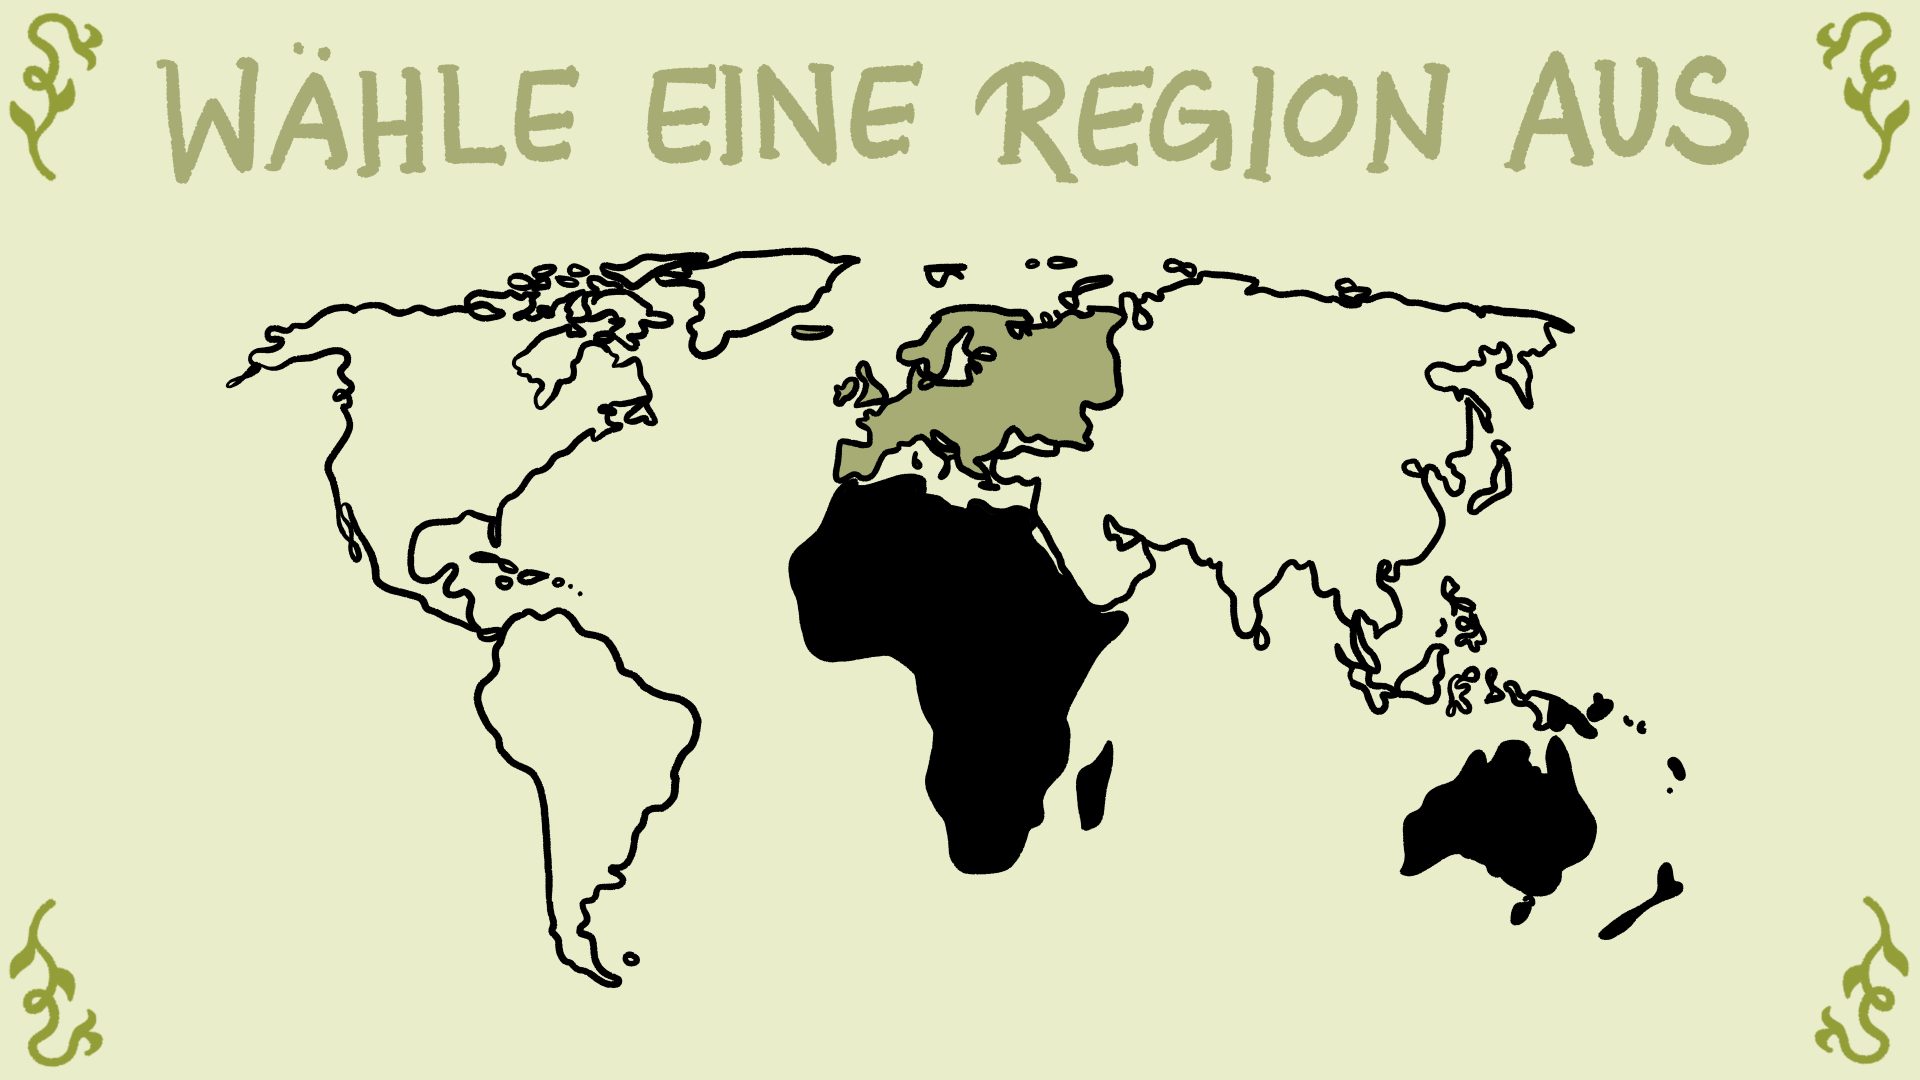
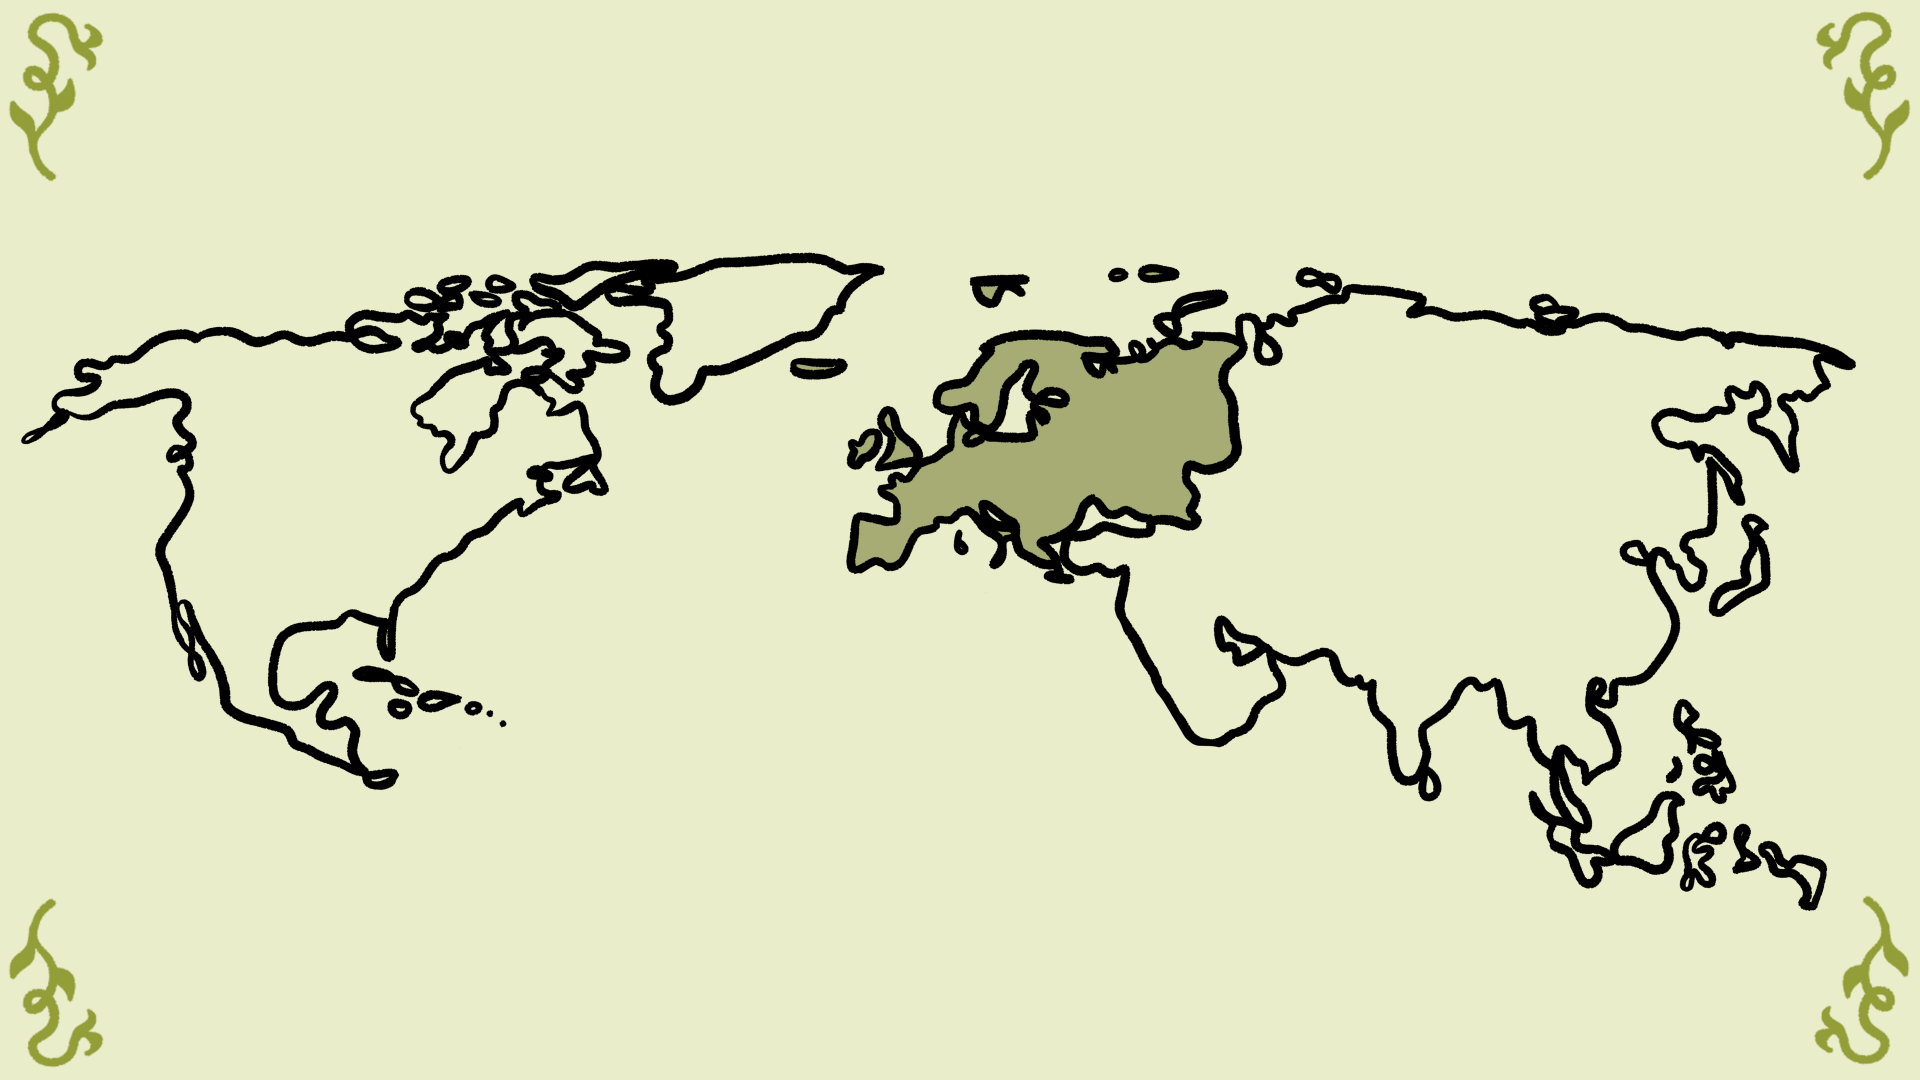
T007 screens überarbeiten

diff --git a/src/main/java/conserveandcook/view/pui/components/BarcodeScanner.java b/src/main/java/conserveandcook/view/pui/components/BarcodeScanner.java
@@ -1,13 +1,15 @@
 package conserveandcook.view.pui.components;
 
 import com.pi4j.catalog.components.base.Component;
-import conserveandcook.misc.Config;
-import static ch.mvcbase.MvcLogger.LOGGER;
+import conserveandcook.misc.Environments;
 
-import java.io.*;
+import java.io.FileInputStream;
+import java.io.IOException;
 import java.nio.ByteBuffer;
 import java.nio.ByteOrder;
 import java.util.function.Consumer;
+
+import static ch.mvcbase.MvcLogger.LOGGER;
 
 public class BarcodeScanner extends Component {
     private final String devicePath;
@@ -31,7 +33,7 @@ public class BarcodeScanner extends Component {
     }
 
     private void listenToInput() {
-        if (Config.get("environment").equals("test"))  {
+        if (Environments.get() == Environments.TEST) {
             return;
         }
         try (FileInputStream inputStream = new FileInputStream(devicePath)) {
@@ -58,7 +60,7 @@ public class BarcodeScanner extends Component {
                         LOGGER.logInfo("Barcode scanned: {}", barcode);
 
                         // Run the onScan worker, if it has been set
-                        if(onScan != null) {
+                        if (onScan != null) {
                             onScan.accept(barcode.toString());
                         }
                         barcode.setLength(0); // Reset barcode buffer
@@ -66,7 +68,7 @@ public class BarcodeScanner extends Component {
                 }
             }
         } catch (IOException e) {
-            LOGGER.logError("Error reading from {}: {}",devicePath, e.getMessage(),e);
+            LOGGER.logError("Error reading from {}: {}", devicePath, e.getMessage(), e);
         }
     }
 
@@ -99,8 +101,8 @@ public class BarcodeScanner extends Component {
         this.onScan = task;
     }
 
-    public void mockScan(String payload){
-        if(onScan != null) {
+    public void mockScan(String payload) {
+        if (onScan != null) {
             onScan.accept(payload);
         }
     }

diff --git a/src/main/java/conserveandcook/view/gui/AbstractGif.java b/src/main/java/conserveandcook/view/gui/AbstractGif.java
@@ -1,0 +1,49 @@
+package conserveandcook.view.gui;
+
+import ch.trick17.gui.Gui;
+
+public abstract class AbstractGif extends AbstractScreen {
+    // GIF
+    private int currentFrame = 0;
+    private final String baseFrame = "frame_";
+    private final String imageFormat = ".png";
+    private long lastGifFrameDrawnAt;
+    protected int frames;
+    protected long gifInterval;
+
+    protected AbstractGif(Gui gui, int frames, long gifInterval) {
+        super(gui);
+        this.frames = frames;
+        this.gifInterval = gifInterval;
+    }
+
+    /**
+     * Calculating next frame
+     *
+     * @param basePath Path of the screen, usually img/{screen-name}
+     * @return String of the next frame
+     */
+    protected String getGifFrame(String basePath) {
+        long now = System.nanoTime();
+
+        if (now - lastGifFrameDrawnAt > gifInterval) {
+            lastGifFrameDrawnAt = now;
+            currentFrame = currentFrame + 1 < frames ? currentFrame + 1 : 0;
+        }
+        String formattedFrame = String.format("%01d", currentFrame);
+        return basePath + baseFrame + formattedFrame + imageFormat;
+    }
+
+    /**
+     * Calculating next frame number
+     */
+    protected String getGifNumber() {
+        long now = System.nanoTime();
+
+        if (now - lastGifFrameDrawnAt > gifInterval) {
+            lastGifFrameDrawnAt = now;
+            currentFrame = currentFrame + 1 < frames ? currentFrame + 1 : 0;
+        }
+        return "/" + baseFrame + String.format("%01d", currentFrame);
+    }
+}

diff --git a/src/main/java/conserveandcook/view/gui/Window.java b/src/main/java/conserveandcook/view/gui/Window.java
@@ -3,15 +3,14 @@ package conserveandcook.view.gui;
 import ch.mvcbase.GuiBase;
 import conserveandcook.controller.ApplicationController;
 import conserveandcook.misc.Config;
+import conserveandcook.misc.Environments;
 import conserveandcook.model.Application;
 import conserveandcook.view.gui.screens.*;
 
-import java.util.Objects;
-
 public class Window extends GuiBase<Application, ApplicationController> {
 
-    public static final int HEIGHT = Integer.parseInt(Config.get("screen.height"));
-    public static final int WIDTH = Integer.parseInt(Config.get("screen.width"));
+    public static int HEIGHT = Integer.parseInt(Config.get("screen.height"));
+    public static int WIDTH = Integer.parseInt(Config.get("screen.width"));
 
     protected final ApplicationController controller;
 
@@ -26,8 +25,12 @@ public class Window extends GuiBase<Application, ApplicationController> {
         Application.screens.put(AvailableScreens.RESULT, new ResultScreen(this));
         Application.screens.put(AvailableScreens.NAME, new NameScreen(this));
 
+        WIDTH = (int) this.getWidth();
+        HEIGHT = (int) this.getHeight();
+        this.setResizable(true);
+
         // Fullscreen when running on local doesn't work
-        boolean runningOnPi = Objects.equals(Config.get("environment"), "production");
+        boolean runningOnPi = Environments.get() == Environments.PRODUCTION;
         this.setFullScreen(runningOnPi);
     }
 

diff --git a/src/main/java/conserveandcook/view/pui/components/Joystick.java b/src/main/java/conserveandcook/view/pui/components/Joystick.java
@@ -1,7 +1,7 @@
 package conserveandcook.view.pui.components;
 
 import com.pi4j.catalog.components.base.Component;
-import conserveandcook.misc.Config;
+import conserveandcook.misc.Environments;
 
 import java.io.FileInputStream;
 import java.time.Duration;
@@ -38,7 +38,7 @@ public class Joystick extends Component {
     }
 
     private void listenToInput() {
-        if (Config.get("environment").equals("test")) {
+        if (Environments.get() == Environments.TEST) {
             return;
         }
         try (FileInputStream fis = new FileInputStream(this.device)) {
@@ -201,7 +201,7 @@ public class Joystick extends Component {
 
     // For testing
     public void mockInput() {
-        if (Config.get("environment").equals("test")) {
+        if (Environments.get() == Environments.TEST) {
             executor = Executors.newSingleThreadExecutor();
             setDirection(true, whileNorthWorker, onNorth);
             setDirection(true, whileEastWorker, onEast);

diff --git a/src/main/java/conserveandcook/view/gui/AbstractScreen.java b/src/main/java/conserveandcook/view/gui/AbstractScreen.java
@@ -1,0 +1,32 @@
+package conserveandcook.view.gui;
+
+import ch.trick17.gui.Gui;
+import conserveandcook.misc.Config;
+import conserveandcook.model.Application;
+
+public abstract class AbstractScreen {
+    protected final Gui gui;
+    public static double SCALE = Double.parseDouble(Config.get("screen.scale"));
+
+    protected AbstractScreen(Gui gui) {
+        this.gui = gui;
+    }
+
+    public abstract void draw(Application model);
+
+    public AvailableScreens next(){
+        return null;
+    }
+    public AvailableScreens prev(){
+        return null;
+    }
+    public void left(Application model) {}
+    public void right(Application model) {}
+    public void scan(Application model, String barcode) {}
+    public void up(Application model) {};
+    public void down(Application model) {};
+
+    protected void drawBackground(String frame) {
+        gui.drawImage(frame, 0, 0, SCALE);
+    }
+}

diff --git a/src/main/java/conserveandcook/view/gui/screens/RegionScreen.java b/src/main/java/conserveandcook/view/gui/screens/RegionScreen.java
@@ -2,6 +2,7 @@ package conserveandcook.view.gui.screens;
 
 import ch.trick17.gui.Gui;
 import conserveandcook.model.Application;
+import conserveandcook.view.gui.AbstractScreen;
 import conserveandcook.view.gui.AvailableScreens;
 
 public class RegionScreen extends AbstractScreen {
@@ -14,6 +15,10 @@ public class RegionScreen extends AbstractScreen {
         String backgroundPath = "img/regions/";
         String path = backgroundPath + model.getSelectedRegion().toString().toLowerCase() + ".png";
         drawBackground(path);
+
+        gui.setTextAlignCenter();
+        gui.setFontSize((int) (100 * SCALE));
+        gui.drawString("Select Region", gui.getWidth() / 2, 80);
     }
 
     @Override

diff --git a/src/main/java/conserveandcook/view/gui/screens/NameScreen.java b/src/main/java/conserveandcook/view/gui/screens/NameScreen.java
@@ -2,6 +2,7 @@ package conserveandcook.view.gui.screens;
 
 import ch.trick17.gui.Gui;
 import conserveandcook.model.Application;
+import conserveandcook.view.gui.AbstractScreen;
 import conserveandcook.view.gui.AvailableScreens;
 
 public class NameScreen extends AbstractScreen {
@@ -15,8 +16,7 @@ public class NameScreen extends AbstractScreen {
 
     @Override
     public void draw(Application model) {
-        String backgroundPath = "img/name/";
-        String path = backgroundPath + "background.png";
+        String path = "img/name/" + model.getSelectedLanguage().name().toLowerCase() + ".png";
         characters = model.getNameCharacters();
 
         drawBackground(path);

diff --git a/src/main/java/conserveandcook/view/gui/screens/LanguageScreen.java b/src/main/java/conserveandcook/view/gui/screens/LanguageScreen.java
@@ -2,11 +2,10 @@ package conserveandcook.view.gui.screens;
 
 import ch.trick17.gui.Gui;
 import conserveandcook.model.Application;
+import conserveandcook.view.gui.AbstractGif;
 import conserveandcook.view.gui.AvailableScreens;
 
-import java.util.Locale;
-
-public class LanguageScreen extends AbstractScreen {
+public class LanguageScreen extends AbstractGif {
     static final int FRAMES = 4;
     static final long GIF_INTERVAL = 2200 * 100000; // 0.25 seconds
 

diff --git a/src/main/java/conserveandcook/view/gui/screens/StartScreen.java b/src/main/java/conserveandcook/view/gui/screens/StartScreen.java
@@ -2,9 +2,10 @@ package conserveandcook.view.gui.screens;
 
 import ch.trick17.gui.Gui;
 import conserveandcook.model.Application;
+import conserveandcook.view.gui.AbstractGif;
 import conserveandcook.view.gui.AvailableScreens;
 
-public class StartScreen extends AbstractScreen {
+public class StartScreen extends AbstractGif {
     static final int FRAMES = 4;
     static final long GIF_INTERVAL = 2500 * 100000; // 0.25 seconds
 

diff --git a/src/test/java/conserveandcook/misc/EnvironmentTest.java b/src/test/java/conserveandcook/misc/EnvironmentTest.java
@@ -1,0 +1,14 @@
+package conserveandcook.misc;
+
+import conserveandcook.AbstractTest;
+import org.junit.jupiter.api.Test;
+
+import static org.junit.jupiter.api.Assertions.assertEquals;
+
+public class EnvironmentTest extends AbstractTest {
+    @Test
+    public void testGetEnv(){
+        Environments currentEnv = Environments.get();
+        assertEquals(Environments.TEST, currentEnv);
+    }
+}

diff --git a/src/main/java/conserveandcook/model/Application.java b/src/main/java/conserveandcook/model/Application.java
@@ -2,8 +2,8 @@ package conserveandcook.model;
 
 import conserveandcook.misc.Languages;
 import conserveandcook.misc.Regions;
+import conserveandcook.view.gui.AbstractScreen;
 import conserveandcook.view.gui.AvailableScreens;
-import conserveandcook.view.gui.screens.AbstractScreen;
 
 import java.util.HashMap;
 import java.util.Map;

diff --git a/src/main/java/conserveandcook/view/gui/screens/GameScreen.java b/src/main/java/conserveandcook/view/gui/screens/GameScreen.java
@@ -4,6 +4,7 @@ import ch.trick17.gui.Gui;
 import conserveandcook.model.Application;
 import conserveandcook.model.Ingredient;
 import conserveandcook.model.Recipe;
+import conserveandcook.view.gui.AbstractScreen;
 import conserveandcook.view.gui.AvailableScreens;
 import org.slf4j.Logger;
 import org.slf4j.LoggerFactory;
